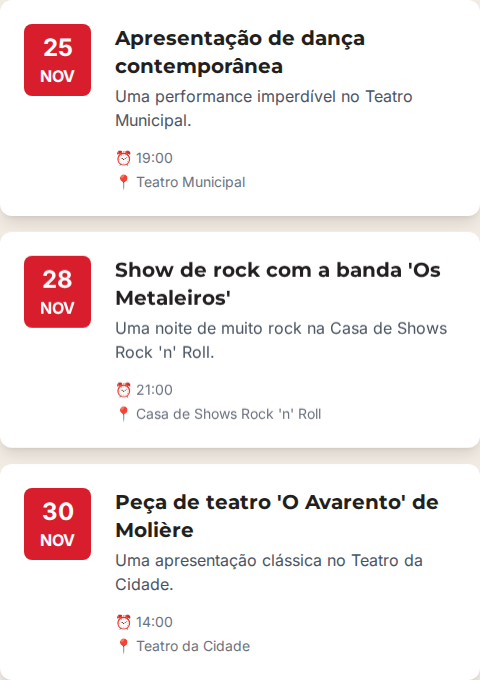
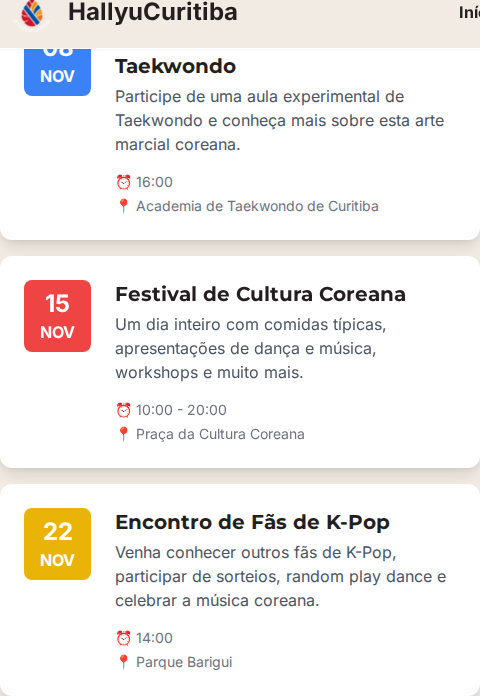
fix(index.html): atualiza eventos de novembro
A seção de eventos de novembro em index.html foi atualizada com as informações corretas.

Changed region(s): [[0.0, 0.0, 1.0, 0.9574]]

diff --git a/index.html b/index.html
@@ -323,48 +323,48 @@
                             </div>
                         <div id="events-novembro" class="event-list tab-panel" data-month="10">
                             <div class="space-y-4">
-                                <!-- Evento: Apresentação de dança contemporânea -->
-                                <div class="bg-white p-6 rounded-xl shadow-lg flex flex-col md:flex-row items-start space-y-4 md:space-y-0 md:space-x-6 card-hover" data-event-id="25">
-                                    <div class="text-center bg-vermelho-paixao text-white rounded-lg px-4 py-2 flex-shrink-0 w-full md:w-auto">
-                                        <p class="font-black text-2xl">25</p>
+                                <!-- Evento: Aula Experimental de Taekwondo -->
+                                <div class="bg-white p-6 rounded-xl shadow-lg flex flex-col md:flex-row items-start space-y-4 md:space-y-0 md:space-x-6 card-hover" data-event-id="8">
+                                    <div class="text-center bg-blue-500 text-white rounded-lg px-4 py-2 flex-shrink-0 w-full md:w-auto">
+                                        <p class="font-black text-2xl">08</p>
                                         <p class="font-bold">NOV</p>
                                     </div>
                                     <div class="flex-grow">
-                                        <h2 class="text-xl font-bold text-preto-carvao">Apresentação de dança contemporânea</h2>
-                                        <p class="text-gray-600 mt-1">Uma performance imperdível no Teatro Municipal.</p>
+                                        <h2 class="text-xl font-bold text-preto-carvao">Aula Experimental de Taekwondo</h2>
+                                        <p class="text-gray-600 mt-1">Participe de uma aula experimental de Taekwondo e conheça mais sobre esta arte marcial coreana.</p>
                                         <div class="text-sm text-gray-500 mt-4 space-y-1">
-                                            <p>⏰ 19:00</p>
-                                            <p>📍 Teatro Municipal</p>
+                                            <p>⏰ 16:00</p>
+                                            <p>📍 Academia de Taekwondo de Curitiba</p>
                                         </div>
                                     </div>
                                 </div>
-                                <!-- Evento: Show de rock com a banda 'Os Metaleiros' -->
-                                <div class="bg-white p-6 rounded-xl shadow-lg flex flex-col md:flex-row items-start space-y-4 md:space-y-0 md:space-x-6 card-hover" data-event-id="28">
-                                    <div class="text-center bg-vermelho-paixao text-white rounded-lg px-4 py-2 flex-shrink-0 w-full md:w-auto">
-                                        <p class="font-black text-2xl">28</p>
+                                <!-- Evento: Festival de Cultura Coreana -->
+                                <div class="bg-white p-6 rounded-xl shadow-lg flex flex-col md:flex-row items-start space-y-4 md:space-y-0 md:space-x-6 card-hover" data-event-id="15">
+                                    <div class="text-center bg-red-500 text-white rounded-lg px-4 py-2 flex-shrink-0 w-full md:w-auto">
+                                        <p class="font-black text-2xl">15</p>
                                         <p class="font-bold">NOV</p>
                                     </div>
                                     <div class="flex-grow">
-                                        <h2 class="text-xl font-bold text-preto-carvao">Show de rock com a banda 'Os Metaleiros'</h2>
-                                        <p class="text-gray-600 mt-1">Uma noite de muito rock na Casa de Shows Rock 'n' Roll.</p>
+                                        <h2 class="text-xl font-bold text-preto-carvao">Festival de Cultura Coreana</h2>
+                                        <p class="text-gray-600 mt-1">Um dia inteiro com comidas típicas, apresentações de dança e música, workshops e muito mais.</p>
                                         <div class="text-sm text-gray-500 mt-4 space-y-1">
-                                            <p>⏰ 21:00</p>
-                                            <p>📍 Casa de Shows Rock 'n' Roll</p>
+                                            <p>⏰ 10:00 - 20:00</p>
+                                            <p>📍 Praça da Cultura Coreana</p>
                                         </div>
                                     </div>
                                 </div>
-                                <!-- Evento: Peça de teatro 'O Avarento' de Molière -->
-                                <div class="bg-white p-6 rounded-xl shadow-lg flex flex-col md:flex-row items-start space-y-4 md:space-y-0 md:space-x-6 card-hover" data-event-id="30">
-                                    <div class="text-center bg-vermelho-paixao text-white rounded-lg px-4 py-2 flex-shrink-0 w-full md:w-auto">
-                                        <p class="font-black text-2xl">30</p>
+                                <!-- Evento: Encontro de Fãs de K-Pop -->
+                                <div class="bg-white p-6 rounded-xl shadow-lg flex flex-col md:flex-row items-start space-y-4 md:space-y-0 md:space-x-6 card-hover" data-event-id="22">
+                                    <div class="text-center bg-yellow-500 text-white rounded-lg px-4 py-2 flex-shrink-0 w-full md:w-auto">
+                                        <p class="font-black text-2xl">22</p>
                                         <p class="font-bold">NOV</p>
                                     </div>
                                     <div class="flex-grow">
-                                        <h2 class="text-xl font-bold text-preto-carvao">Peça de teatro 'O Avarento' de Molière</h2>
-                                        <p class="text-gray-600 mt-1">Uma apresentação clássica no Teatro da Cidade.</p>
+                                        <h2 class="text-xl font-bold text-preto-carvao">Encontro de Fãs de K-Pop</h2>
+                                        <p class="text-gray-600 mt-1">Venha conhecer outros fãs de K-Pop, participar de sorteios, random play dance e celebrar a música coreana.</p>
                                         <div class="text-sm text-gray-500 mt-4 space-y-1">
                                             <p>⏰ 14:00</p>
-                                            <p>📍 Teatro da Cidade</p>
+                                            <p>📍 Parque Barigui</p>
                                         </div>
                                     </div>
                                 </div>

diff --git a/capture_correct_calendar.spec.js b/capture_correct_calendar.spec.js
@@ -1,0 +1,15 @@
+const { test } = require('@playwright/test');
+
+test('Capture correct calendar view for November 2025', async ({ page }) => {
+  await page.goto('http://localhost:8000/index.html');
+
+  // Wait for the iframe to be present
+  const iframeElement = await page.waitForSelector('iframe[src*="calendar.google.com"]');
+  const frame = await iframeElement.contentFrame();
+
+  // Wait for a specific element inside the iframe to ensure it's loaded
+  await frame.waitForSelector('[role="grid"]');
+
+  // Take a screenshot of the calendar area
+  await iframeElement.screenshot({ path: 'correct_november_calendar_view.png' });
+});

diff --git a/verify_november_events.spec.js b/verify_november_events.spec.js
@@ -1,0 +1,13 @@
+const { test, expect } = require('@playwright/test');
+
+test('Verifica se a aba de Novembro foi atualizada corretamente', async ({ page }) => {
+  // Navega para a página principal
+  await page.goto('http://localhost:3000');
+
+  // Clica na aba de Novembro
+  await page.click('button[data-month="10"]');
+
+  // Tira uma captura de tela da seção de eventos de Novembro
+  const novemberEvents = await page.$('#events-novembro');
+  await novemberEvents.screenshot({ path: 'november_events_verification.png' });
+});
